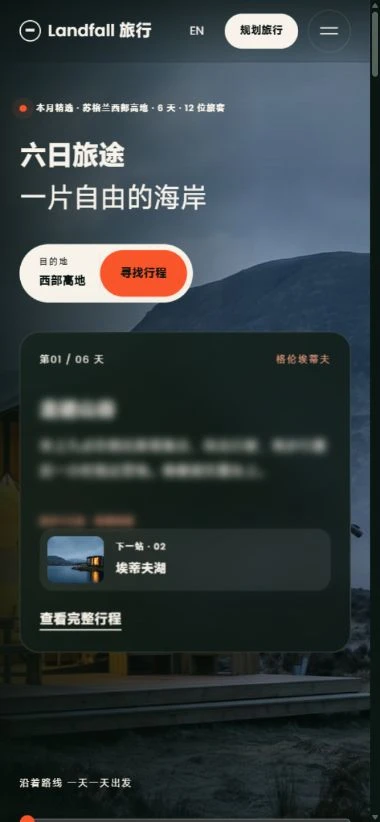
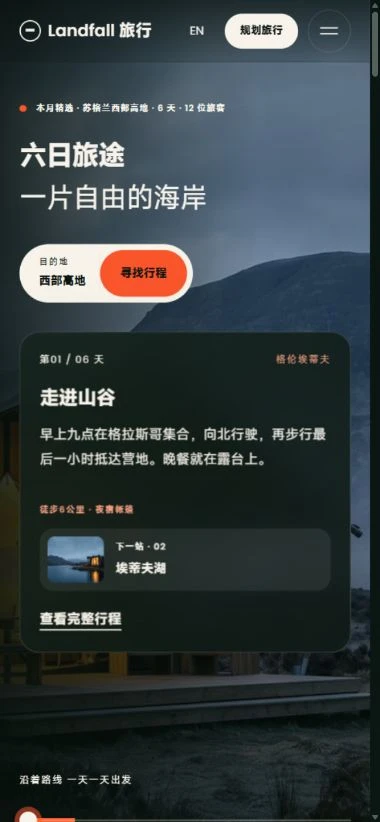
fix: 对齐路线滑块并补全自动播放进度

diff --git a/src/features/site-templates/catalog/landfall/theme.css b/src/features/site-templates/catalog/landfall/theme.css
@@ -48,3 +48,6 @@ html[data-landfall]::-webkit-scrollbar{width:9px}html[data-landfall]::-webkit-sc
 .landfall[lang=zh-CN] em{font-family:'Landfall MiSans',sans-serif;font-style:normal;letter-spacing:-.02em;font-size:1em}.landfall .lf-native-guides{margin-inline:calc(-1 * var(--lf-gutter))}.landfall .lf-native-guide-track{display:flex;gap:14px;overflow-x:auto;scroll-snap-type:x mandatory;overscroll-behavior-x:contain;padding:0 var(--lf-gutter) 25px;scroll-padding-inline:var(--lf-gutter)}.landfall .lf-native-guide-track>.lf-guide-card{flex:0 0 min(84vw,340px);scroll-snap-align:start}.landfall .lf-native-guides>.lf-dots{margin:24px var(--lf-gutter) 0}.landfall .lf-day-story,.landfall .lf-reading-layout{position:relative}
 
 .landfall .lf-reviews-grid{display:grid;grid-template-columns:1fr 1fr;gap:30px;margin-top:40px}.landfall .lf-reviews-grid figure{padding:35px;height:100%}.landfall .lf-reviews-grid blockquote{font-size:23px;line-height:1.65;margin:28px 0}.landfall .lf-reviews-grid figcaption{display:flex;align-items:center;gap:16px;font-size:13px}.landfall .lf-reviews-grid figcaption img{width:48px;height:48px;border-radius:50%}.landfall .lf-reviews-grid figcaption small{display:block;font-size:9px;margin-top:6px;color:var(--lf-muted)}.landfall .lf-editorial-gallery{display:grid;grid-template-columns:repeat(3,1fr);gap:25px;margin-top:50px}.landfall .lf-editorial-gallery img{width:100%;height:340px;border-radius:var(--lf-radius)}.landfall .lf-travel-step{position:relative;display:grid;grid-template-columns:1fr 1fr;gap:8vw;margin:100px 0;align-items:center}.landfall .lf-travel-step>div{position:relative}.landfall .lf-travel-step h2{margin:30px 0}.landfall .lf-travel-step>img{width:100%;height:580px;border-radius:var(--lf-radius)}.landfall .lf-travel-step.is-reverse>img{grid-column:1;grid-row:1}.landfall .lf-travel-step.is-reverse>div{grid-column:2}.landfall .lf-step-number{font-size:180px;line-height:1;-webkit-text-stroke:1px var(--lf-line);color:transparent;display:block;margin-top:25px}.landfall .lf-role-list{margin:40px 0 90px}.landfall .lf-role-list>a{display:flex;gap:35px;align-items:center;border-top:1px solid var(--lf-line);padding:28px 0}.landfall .lf-role-list>a>small{color:var(--lf-accent)}.landfall .lf-role-list>a>div{flex:1}.landfall .lf-role-list h3{margin-bottom:10px}.landfall .lf-role-list p,.landfall .lf-role-list>a>span{font-size:11px;color:var(--lf-muted)}@media(max-width:809px){.landfall .lf-reviews-grid{grid-template-columns:1fr}.landfall .lf-reviews-grid figure{padding:25px}.landfall .lf-editorial-gallery{grid-template-columns:1fr}.landfall .lf-editorial-gallery img{height:350px}.landfall .lf-travel-step{grid-template-columns:1fr;gap:30px;margin:65px 0}.landfall .lf-travel-step.is-reverse>img,.landfall .lf-travel-step.is-reverse>div{grid-column:auto;grid-row:auto}.landfall .lf-travel-step>img{height:380px}.landfall .lf-step-number{font-size:120px}.landfall .lf-role-list>a{gap:18px;flex-wrap:wrap}.landfall .lf-role-list h3{font-size:18px}.landfall .lf-role-list>a>span{display:none}}
+
+/* 时间轴的标记和原生滑块共用 n−1 个等距区间，避免末日标记偏离滑块。 */
+.landfall .lf-range-track input{appearance:none;-webkit-appearance:none;background:transparent;height:24px}.landfall .lf-range-track input::-webkit-slider-runnable-track{height:2px;background:#eef3e447}.landfall .lf-range-track input::-moz-range-track{height:2px;background:#eef3e447}.landfall .lf-range-track input::-webkit-slider-thumb{appearance:none;-webkit-appearance:none;width:22px;height:22px;border-radius:50%;margin-top:-10px;background:var(--lf-ink);border:0;box-shadow:0 0 0 5px #fa542b88}.landfall .lf-range-track input::-moz-range-thumb{width:22px;height:22px;border:0;border-radius:50%;background:var(--lf-ink);box-shadow:0 0 0 5px #fa542b88}.landfall .lf-route-labels{position:relative;display:block;height:68px;margin-top:-22px;padding-top:0}.landfall .lf-route-labels button{position:absolute;top:28px;width:160px;max-width:20%;padding:0;transform:translateX(-50%);text-align:center}.landfall .lf-route-labels button:first-child{transform:none;text-align:left}.landfall .lf-route-labels button:last-child{transform:translateX(-100%);text-align:right}.landfall .lf-route-labels i{top:-24px;left:calc(50% - 6px);z-index:2;pointer-events:none}.landfall .lf-route-labels button:first-child i{left:5px}.landfall .lf-route-labels button:last-child i{left:auto;right:5px}.landfall .lf-timeline-progress{position:absolute;top:10px;height:4px;background:var(--lf-accent);transform-origin:left;z-index:2;pointer-events:none;animation:lf-day-progress 6s linear both}@keyframes lf-day-progress{from{transform:scaleX(0)}to{transform:scaleX(1)}}@media(max-width:809px){.landfall .lf-route-labels{height:45px}.landfall .lf-route-labels button{width:46px}.landfall .lf-range-track input::-webkit-slider-thumb{width:18px;height:18px;margin-top:-8px}.landfall .lf-range-track input::-moz-range-thumb{width:18px;height:18px}}

diff --git a/src/features/site-templates/catalog/landfall/components/RouteJourney.tsx b/src/features/site-templates/catalog/landfall/components/RouteJourney.tsx
@@ -22,6 +22,6 @@ export function RouteJourney({items=homeDays,home=false,title='The route, day by
      {home&&<SiteLink to="tour/highland-coast-on-foot" className="lf-underlined">{pick('查看完整行程','See the tour')}</SiteLink>}
     </div>
    </div>
-   <div className="lf-route-timeline" onMouseEnter={()=>state.setPaused(true)} onMouseLeave={()=>state.setPaused(false)} onFocusCapture={()=>state.setPaused(true)} onBlurCapture={e=>{if(!e.currentTarget.contains(e.relatedTarget))state.setPaused(false)}}><div className="lf-timeline-label"><span>{pick('沿着路线 一天一天出发','The route, day by day')}</span><span>{pick('拖动时间轴探索旅程','Drag the line to travel it')}</span></div><div className="lf-range-track"><input aria-label={pick('逐日路线','Route, day by day')} type="range" min={0} max={items.length-1} step={1} value={active} onChange={e=>state.setActive(Number(e.target.value))} onPointerDown={()=>state.setPaused(true)} onPointerUp={()=>state.setPaused(false)} onPointerCancel={()=>state.setPaused(false)}/><div className="lf-route-labels">{items.map((item,index)=><button key={item.slug} aria-pressed={index===active} aria-label={pick('第 '+(index+1)+' 天：','Day '+(index+1)+': ')+t(item.location)} onClick={()=>state.setActive(index)}><i/><small>{pick('第 '+(index+1)+' 天','Day '+(index+1))}</small><span>{t(item.location)}</span></button>)}</div></div>{home&&<button className="lf-play-toggle" onClick={()=>state.setManualPaused(value=>!value)}>{state.paused?pick('继续轮播','Resume'):pick('暂停轮播','Pause')}</button>}</div>
+   <div className="lf-route-timeline" onMouseEnter={()=>state.setPaused(true)} onMouseLeave={()=>state.setPaused(false)} onFocusCapture={()=>state.setPaused(true)} onBlurCapture={e=>{if(!e.currentTarget.contains(e.relatedTarget))state.setPaused(false)}}><div className="lf-timeline-label"><span>{pick('沿着路线 一天一天出发','The route, day by day')}</span><span>{pick('拖动时间轴探索旅程','Drag the line to travel it')}</span></div><div className="lf-range-track">{home&&active<items.length-1&&<span key={day.slug} className="lf-timeline-progress" style={{left:(active/(items.length-1)*100)+'%',width:(100/(items.length-1))+'%',animationPlayState:state.playing?'running':'paused'}}/>}<input aria-label={pick('逐日路线','Route, day by day')} type="range" min={0} max={items.length-1} step={1} value={active} onChange={e=>state.setActive(Number(e.target.value))} onPointerDown={()=>state.setPaused(true)} onPointerUp={()=>state.setPaused(false)} onPointerCancel={()=>state.setPaused(false)}/><div className="lf-route-labels">{items.map((item,index)=><button key={item.slug} style={{left:(index/Math.max(1,items.length-1)*100)+'%'}} aria-pressed={index===active} aria-label={pick('第 '+(index+1)+' 天：','Day '+(index+1)+': ')+t(item.location)} onClick={()=>state.setActive(index)}><i/><small>{pick('第 '+(index+1)+' 天','Day '+(index+1))}</small><span>{t(item.location)}</span></button>)}</div></div>{home&&<button className="lf-play-toggle" onClick={()=>state.setManualPaused(value=>!value)}>{state.paused?pick('继续轮播','Resume'):pick('暂停轮播','Pause')}</button>}</div>
  </section>
 }
